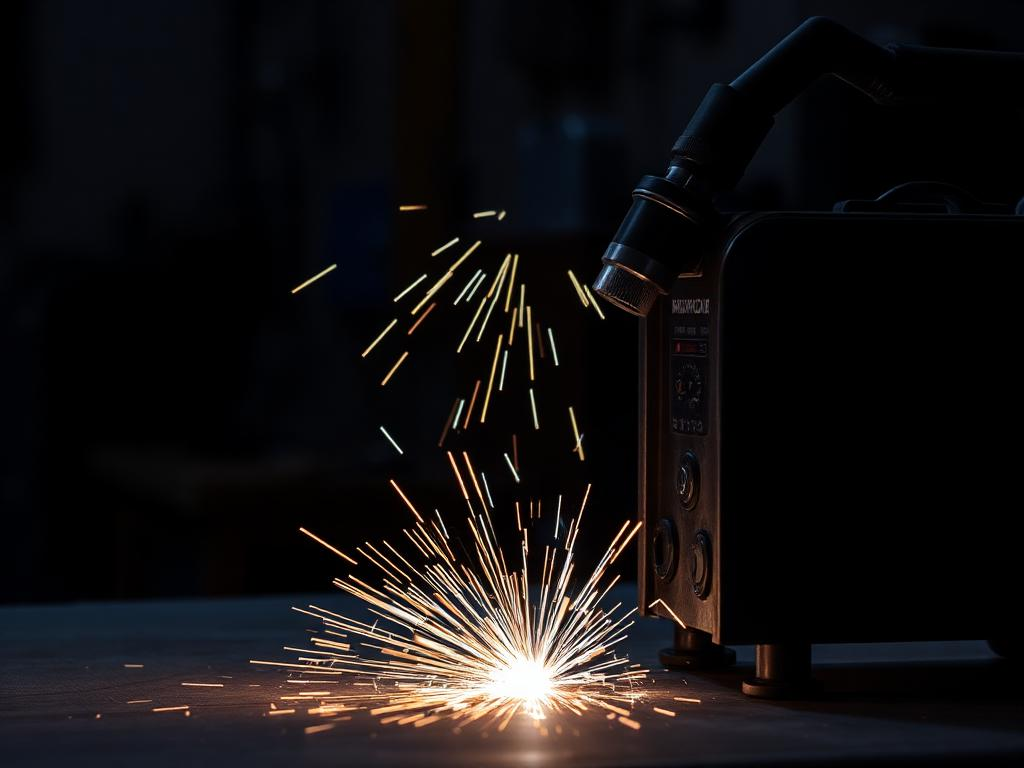
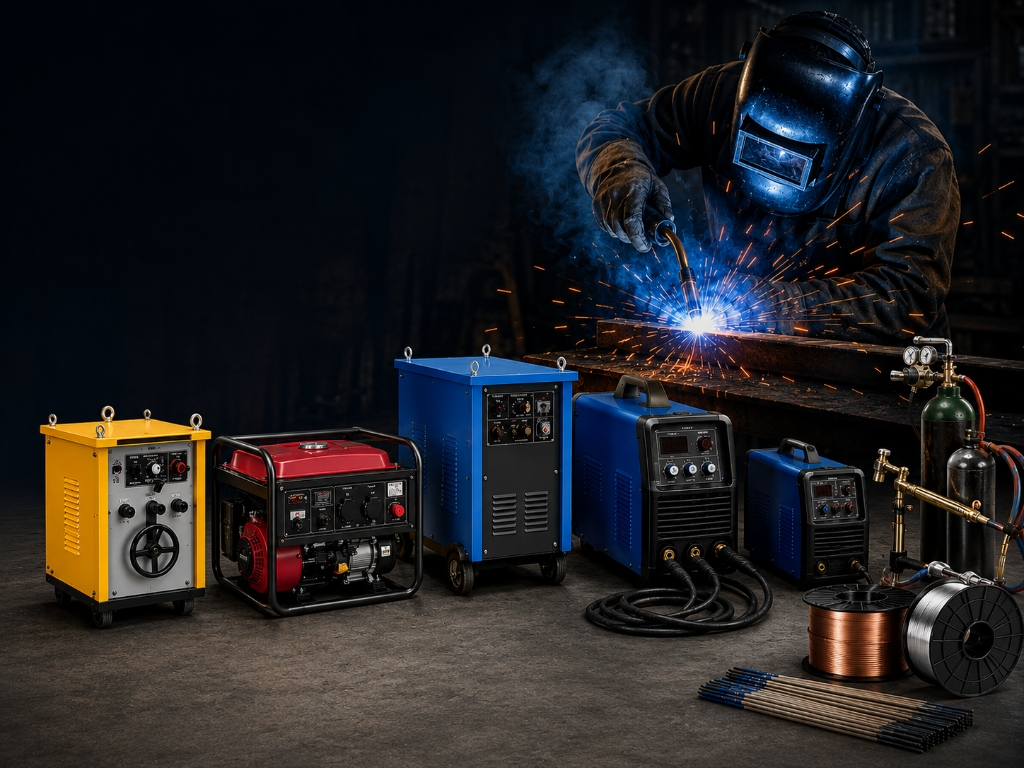
done home page

diff --git a/src/components/site/Stats.tsx b/src/components/site/Stats.tsx
@@ -1,10 +1,37 @@
 import { useEffect, useRef, useState } from "react";
+import { Package } from "lucide-react";
+import { cn } from "@/lib/utils";
 
 const stats = [
-  { value: 71, suffix: "+", label: "Years of Industry Experience" },
-  { value: 1000, suffix: "+", label: "Industrial Products" },
-  { text: "Multiple", label: "Authorised Brands" },
-  { text: "Pan-Industry", label: "Solutions" },
+  {
+    value: 71,
+    suffix: "+",
+    label: "Years of Industry Experience",
+    image: "/stats/experience.png",
+  },
+  {
+    value: 1000,
+    suffix: "+",
+    label: "Industrial Products",
+    icon: Package,
+  },
+  {
+    text: "Multiple",
+    label: "Authorised Brands",
+    customIcon: () => (
+      <svg viewBox="0 0 512 512" className="size-12 text-gold-dark fill-gold-dark" xmlns="http://www.w3.org/2000/svg">
+        <path d="M256 40c-119.3 0-216 96.7-216 216s96.7 216 216 216 216-96.7 216-216S375.3 40 256 40zm0 376c-88.4 0-160-71.6-160-160s71.6-160 160-160 160 71.6 160 160-71.6 160-160 160z" fill="none" stroke="currentColor" strokeWidth="24" />
+        <path d="M140 180l30 90h172l30-90-50 50-36-50-36 50-50-50z" fill="currentColor" />
+        <text x="256" y="360" fontFamily="Montserrat, sans-serif" fontSize="56" fontWeight="900" textAnchor="middle" fill="currentColor" letterSpacing="2">BRAND</text>
+      </svg>
+    ),
+  },
+  {
+    value: 100,
+    suffix: "%",
+    label: "Customer Satisfaction",
+    image: "/stats/satisfaction.png",
+  },
 ];
 
 function useInView<T extends HTMLElement>() {
@@ -56,30 +83,50 @@ function CountUp({ target, suffix }: { target: number; suffix?: string }) {
 
 export function Stats() {
   return (
-    <section aria-label="Company statistics" className="border-b border-border bg-surface">
-      <div className="mx-auto grid max-w-7xl grid-cols-2 gap-y-10 px-4 py-12 sm:px-6 lg:grid-cols-4 lg:gap-x-8 lg:px-8 lg:py-14">
-        {stats.map((stat, i) => (
-          <div
-            key={stat.label}
-            className={
-              "px-2 text-center lg:px-6 lg:text-left " +
-              (i > 0 ? "lg:border-l lg:border-border" : "")
-            }
-          >
-            <p className="font-display text-4xl leading-none font-extrabold tracking-tight text-ink sm:text-5xl">
-              {"value" in stat && typeof stat.value === "number" ? (
-                <span className="text-gold-dark">
-                  <CountUp target={stat.value} suffix={stat.suffix} />
-                </span>
-              ) : (
-                <span className="text-gold-dark">{stat.text}</span>
-              )}
-            </p>
-            <p className="mx-auto mt-3 max-w-[16ch] text-sm font-semibold tracking-wide text-muted-foreground uppercase lg:mx-0">
-              {stat.label}
-            </p>
+    <section aria-label="Company statistics" className="bg-zinc-50 py-16">
+      <div className="mx-auto max-w-7xl px-4 sm:px-6 lg:px-8">
+        <div className="rounded-2xl border border-zinc-200 bg-white px-6 py-10 shadow-sm sm:px-8 lg:px-10">
+          <div className="grid grid-cols-1 gap-y-10 sm:grid-cols-2 sm:gap-x-8 sm:gap-y-12 lg:grid-cols-4 lg:gap-y-0">
+            {stats.map((stat, i) => {
+              const Icon = "icon" in stat ? stat.icon : null;
+              return (
+                <div
+                  key={stat.label}
+                  className={cn(
+                    "flex items-center gap-4 px-4 py-2 relative justify-center sm:justify-start",
+                    i > 0 && "lg:border-l lg:border-zinc-200",
+                    i % 2 !== 0 && "sm:border-l sm:border-zinc-200 lg:border-l-0"
+                  )}
+                >
+                  {/* Icon circle */}
+                  <div className="flex size-18 shrink-0 items-center justify-center rounded-full border border-gold/30 bg-gold/5 text-gold-dark p-0">
+                    {"image" in stat && stat.image ? (
+                      <img src={stat.image} alt="" className="size-12 object-contain" />
+                    ) : "customIcon" in stat && stat.customIcon ? (
+                      stat.customIcon()
+                    ) : Icon ? (
+                      <Icon className="size-10 stroke-[1.5]" />
+                    ) : null}
+                  </div>
+
+                  {/* Text & Value container */}
+                  <div className="flex flex-col">
+                    <p className="font-display text-2xl sm:text-3xl font-extrabold tracking-tight text-ink leading-none">
+                      {"value" in stat && typeof stat.value === "number" ? (
+                        <CountUp target={stat.value} suffix={stat.suffix} />
+                      ) : (
+                        "text" in stat ? stat.text : ""
+                      )}
+                    </p>
+                    <p className="text-[11px] sm:text-xs font-bold tracking-wider text-muted-foreground uppercase mt-2 leading-tight max-w-[16ch]">
+                      {stat.label}
+                    </p>
+                  </div>
+                </div>
+              );
+            })}
           </div>
-        ))}
+        </div>
       </div>
     </section>
   );

diff --git a/src/components/site/FloatingContact.tsx b/src/components/site/FloatingContact.tsx
@@ -1,18 +1,57 @@
-import { MessageCircle, Phone } from "lucide-react";
+import { useEffect, useState } from "react";
+import { ArrowUp, Phone } from "lucide-react";
 import { siteConfig } from "@/lib/site-config";
+import { cn } from "@/lib/utils";
+
+const WhatsAppIcon = (props: React.SVGProps<SVGSVGElement>) => (
+  <svg viewBox="0 0 24 24" fill="currentColor" {...props}>
+    <path d="M12.031 2c-5.516 0-9.99 4.474-9.99 9.99 0 1.763.459 3.42 1.258 4.87L2 22l5.282-1.385c1.402.766 2.999 1.205 4.698 1.205 5.515 0 9.99-4.474 9.99-9.99C21.97 6.474 17.546 2 12.03 2zm4.743 14.162c-.226.636-1.305 1.214-1.802 1.282-.475.066-.975.097-2.65-.583-2.143-.872-3.506-3.056-3.615-3.2-1.077-1.439-1.806-3.118-1.806-4.882 0-1.782.932-2.73 1.266-3.082.3-.318.825-.436 1.246-.436.136 0 .256.006.357.012.3.013.447.03.64.442.247.533.844 2.062.918 2.213.072.152.122.33.022.529-.1.2-.15.318-.3.491-.15.172-.315.385-.45.517-.15.145-.307.304-.132.6.176.297.785 1.293 1.685 2.093.748.665 1.38 1.045 1.678 1.173.3.129.475.109.65-.091.176-.2.756-.879.957-1.18.2-.3.4-.251.675-.152.274.1.1.2.918.423s1.58.743 1.854.879c.274.135.457.2.523.315.066.115.066.666-.16 1.302z" />
+  </svg>
+);
 
 export function FloatingContact() {
+  const [showScroll, setShowScroll] = useState(false);
+
+  useEffect(() => {
+    const handleScroll = () => {
+      setShowScroll(window.scrollY > 300);
+    };
+    window.addEventListener("scroll", handleScroll);
+    return () => window.removeEventListener("scroll", handleScroll);
+  }, []);
+
+  const scrollToTop = () => {
+    window.scrollTo({ top: 0, behavior: "smooth" });
+  };
+
   return (
     <div className="fixed right-4 bottom-4 z-40 flex flex-col gap-3">
+      {/* Scroll to Top Button */}
+      <button
+        onClick={scrollToTop}
+        aria-label="Scroll to top"
+        className={cn(
+          "grid size-13 place-items-center rounded-full bg-ink text-gold shadow-[var(--shadow-card-hover)] transition-all duration-300 hover:bg-gold hover:text-ink",
+          showScroll
+            ? "translate-y-0 opacity-100 scale-100"
+            : "translate-y-4 opacity-0 scale-75 pointer-events-none"
+        )}
+      >
+        <ArrowUp className="size-6" aria-hidden="true" />
+      </button>
+
+      {/* WhatsApp Button (Green Theme) */}
       <a
         href={`https://wa.me/${siteConfig.whatsapp}`}
         target="_blank"
         rel="noreferrer"
         aria-label="Chat with us on WhatsApp"
-        className="grid size-13 place-items-center rounded-full bg-ink text-gold shadow-[var(--shadow-card-hover)] transition-transform hover:-translate-y-1"
+        className="grid size-13 place-items-center rounded-full bg-[#25D366] text-white shadow-[var(--shadow-card-hover)] transition-transform hover:-translate-y-1 hover:bg-[#20ba5a]"
       >
-        <MessageCircle className="size-6" aria-hidden="true" />
+        <WhatsAppIcon className="size-7" aria-hidden="true" />
       </a>
+
+      {/* Phone Button */}
       <a
         href={siteConfig.phoneHref}
         aria-label={`Call ${siteConfig.phone}`}

diff --git a/src/components/site/Header.tsx b/src/components/site/Header.tsx
@@ -58,13 +58,10 @@ export function Header() {
         <div className="ml-auto flex items-center gap-2 lg:ml-6">
           <a
             href={siteConfig.phoneHref}
-            className="hidden items-center gap-2 text-sm font-semibold text-foreground/80 transition-colors hover:text-gold-dark xl:flex"
+            className="hidden items-center gap-2 text-sm font-semibold text-foreground/80 transition-colors hover:text-gold-dark lg:flex"
           >
             <Phone className="size-4 text-gold-dark" aria-hidden="true" />
             {siteConfig.phone}
-          </a>
-          <a href="#contact" className="btn-base btn-gold hidden !px-5 !py-3 sm:inline-flex">
-            Get a Quote
           </a>
           <button
             type="button"
@@ -91,13 +88,6 @@ export function Header() {
                 {link.label}
               </a>
             ))}
-            <a
-              href="#contact"
-              onClick={() => setOpen(false)}
-              className="btn-base btn-gold mt-4 mb-2"
-            >
-              Get a Quote
-            </a>
           </nav>
         </div>
       )}

diff --git a/src/components/site/About.tsx b/src/components/site/About.tsx
@@ -1,5 +1,4 @@
 import { Check } from "lucide-react";
-import aboutImage from "@/assets/about-warehouse.jpg";
 import { Reveal } from "@/components/Reveal";
 
 const highlights = [
@@ -18,8 +17,8 @@ export function About() {
           <div className="absolute -top-5 -left-5 hidden h-32 w-32 border-t-4 border-l-4 border-gold sm:block" />
           <div className="absolute -right-5 -bottom-5 hidden h-32 w-32 border-r-4 border-b-4 border-gold sm:block" />
           <img
-            src={aboutImage}
-            alt="Ganesh Trading Company warehouse stocked with industrial safety equipment and tools"
+            src="/about-company.jpg"
+            alt="Ganesh Trading Company product showcase, 71 years of trust, and business highlights"
             width={1200}
             height={1000}
             loading="lazy"
@@ -54,10 +53,6 @@ export function About() {
               </li>
             ))}
           </ul>
-
-          <a href="#contact" className="btn-base btn-ink mt-10">
-            Learn More About Us
-          </a>
         </Reveal>
       </div>
     </section>

diff --git a/src/components/site/FinalCta.tsx b/src/components/site/FinalCta.tsx
@@ -15,7 +15,7 @@ export function FinalCta() {
       <div className="absolute inset-0 bg-[oklch(0.09_0_0/0.84)]" />
 
       <Reveal className="relative mx-auto max-w-3xl px-4 text-center sm:px-6">
-        <h2 className="heading-lg text-white">Looking for Reliable Industrial Products?</h2>
+        <h2 className="heading-lg text-white">Need Expert Advice or Bulk Quote</h2>
         <span className="gold-rule mx-auto mt-5 block" />
         <p className="mt-5 text-base leading-relaxed text-white/80 sm:text-lg">
           Talk to Ganesh Trading Company for quality products, trusted brands and dependable
@@ -24,9 +24,6 @@ export function FinalCta() {
         <div className="mt-9 flex flex-wrap justify-center gap-3">
           <a href="#contact" className="btn-base btn-gold">
             Get a Quote
-          </a>
-          <a href="#contact" className="btn-base btn-ghost-light">
-            Contact Us
           </a>
         </div>
       </Reveal>

diff --git a/src/components/site/Partners.tsx b/src/components/site/Partners.tsx
@@ -24,7 +24,7 @@ function LogoTile({ name, logo }: { name: string; logo?: string }) {
         <img
           src={logo}
           alt={`${name} logo`}
-          className="max-h-16 max-w-[90%] object-contain opacity-75 transition-opacity group-hover:opacity-100"
+          className="max-h-16 max-w-[90%] object-contain"
         />
       ) : (
         <span className="font-display text-lg font-bold tracking-wide text-muted-foreground transition-colors group-hover:text-gold-dark text-center leading-tight">

diff --git a/src/components/site/Footer.tsx b/src/components/site/Footer.tsx
@@ -4,7 +4,7 @@ import { mapDirectionsUrl, navLinks, siteConfig } from "@/lib/site-config";
 
 export function Footer() {
   return (
-    <footer className="bg-ink text-white/70">
+    <footer className="bg-ink text-white/70 border-t-2 border-gold">
       <div className="mx-auto grid max-w-7xl gap-10 px-4 py-16 sm:px-6 md:grid-cols-2 lg:grid-cols-4 lg:px-8">
         <div>
           <img
